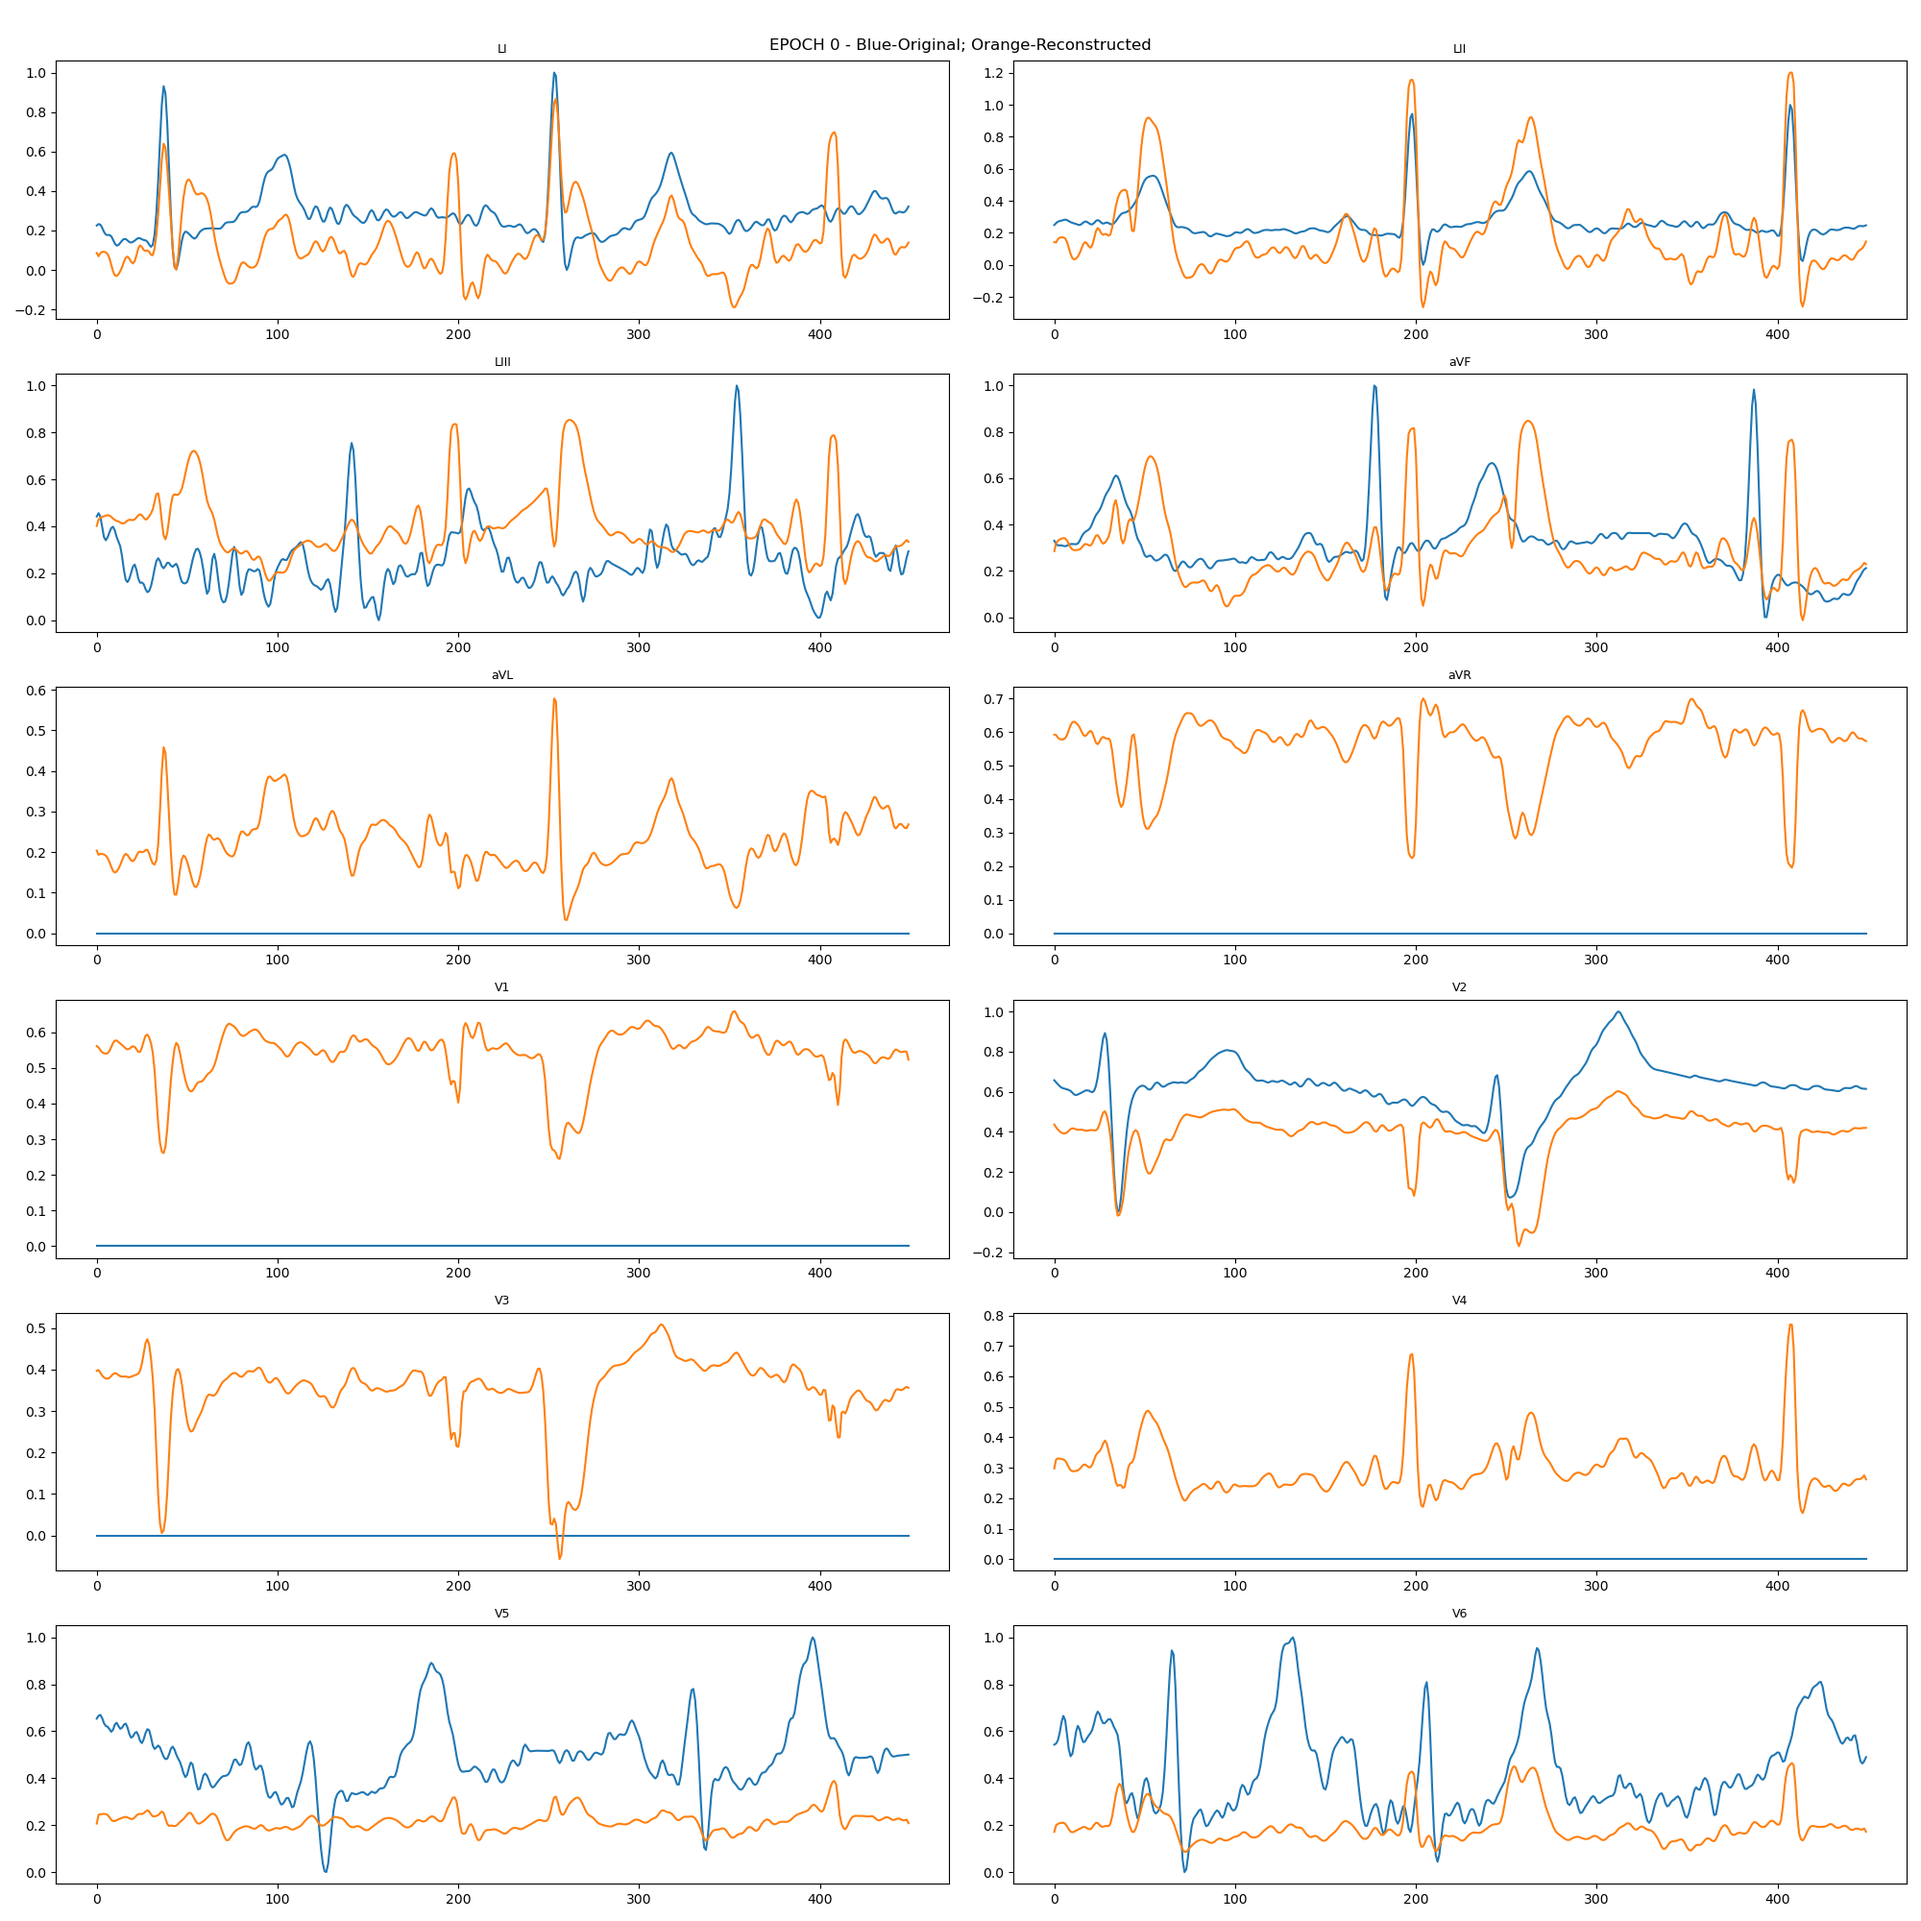
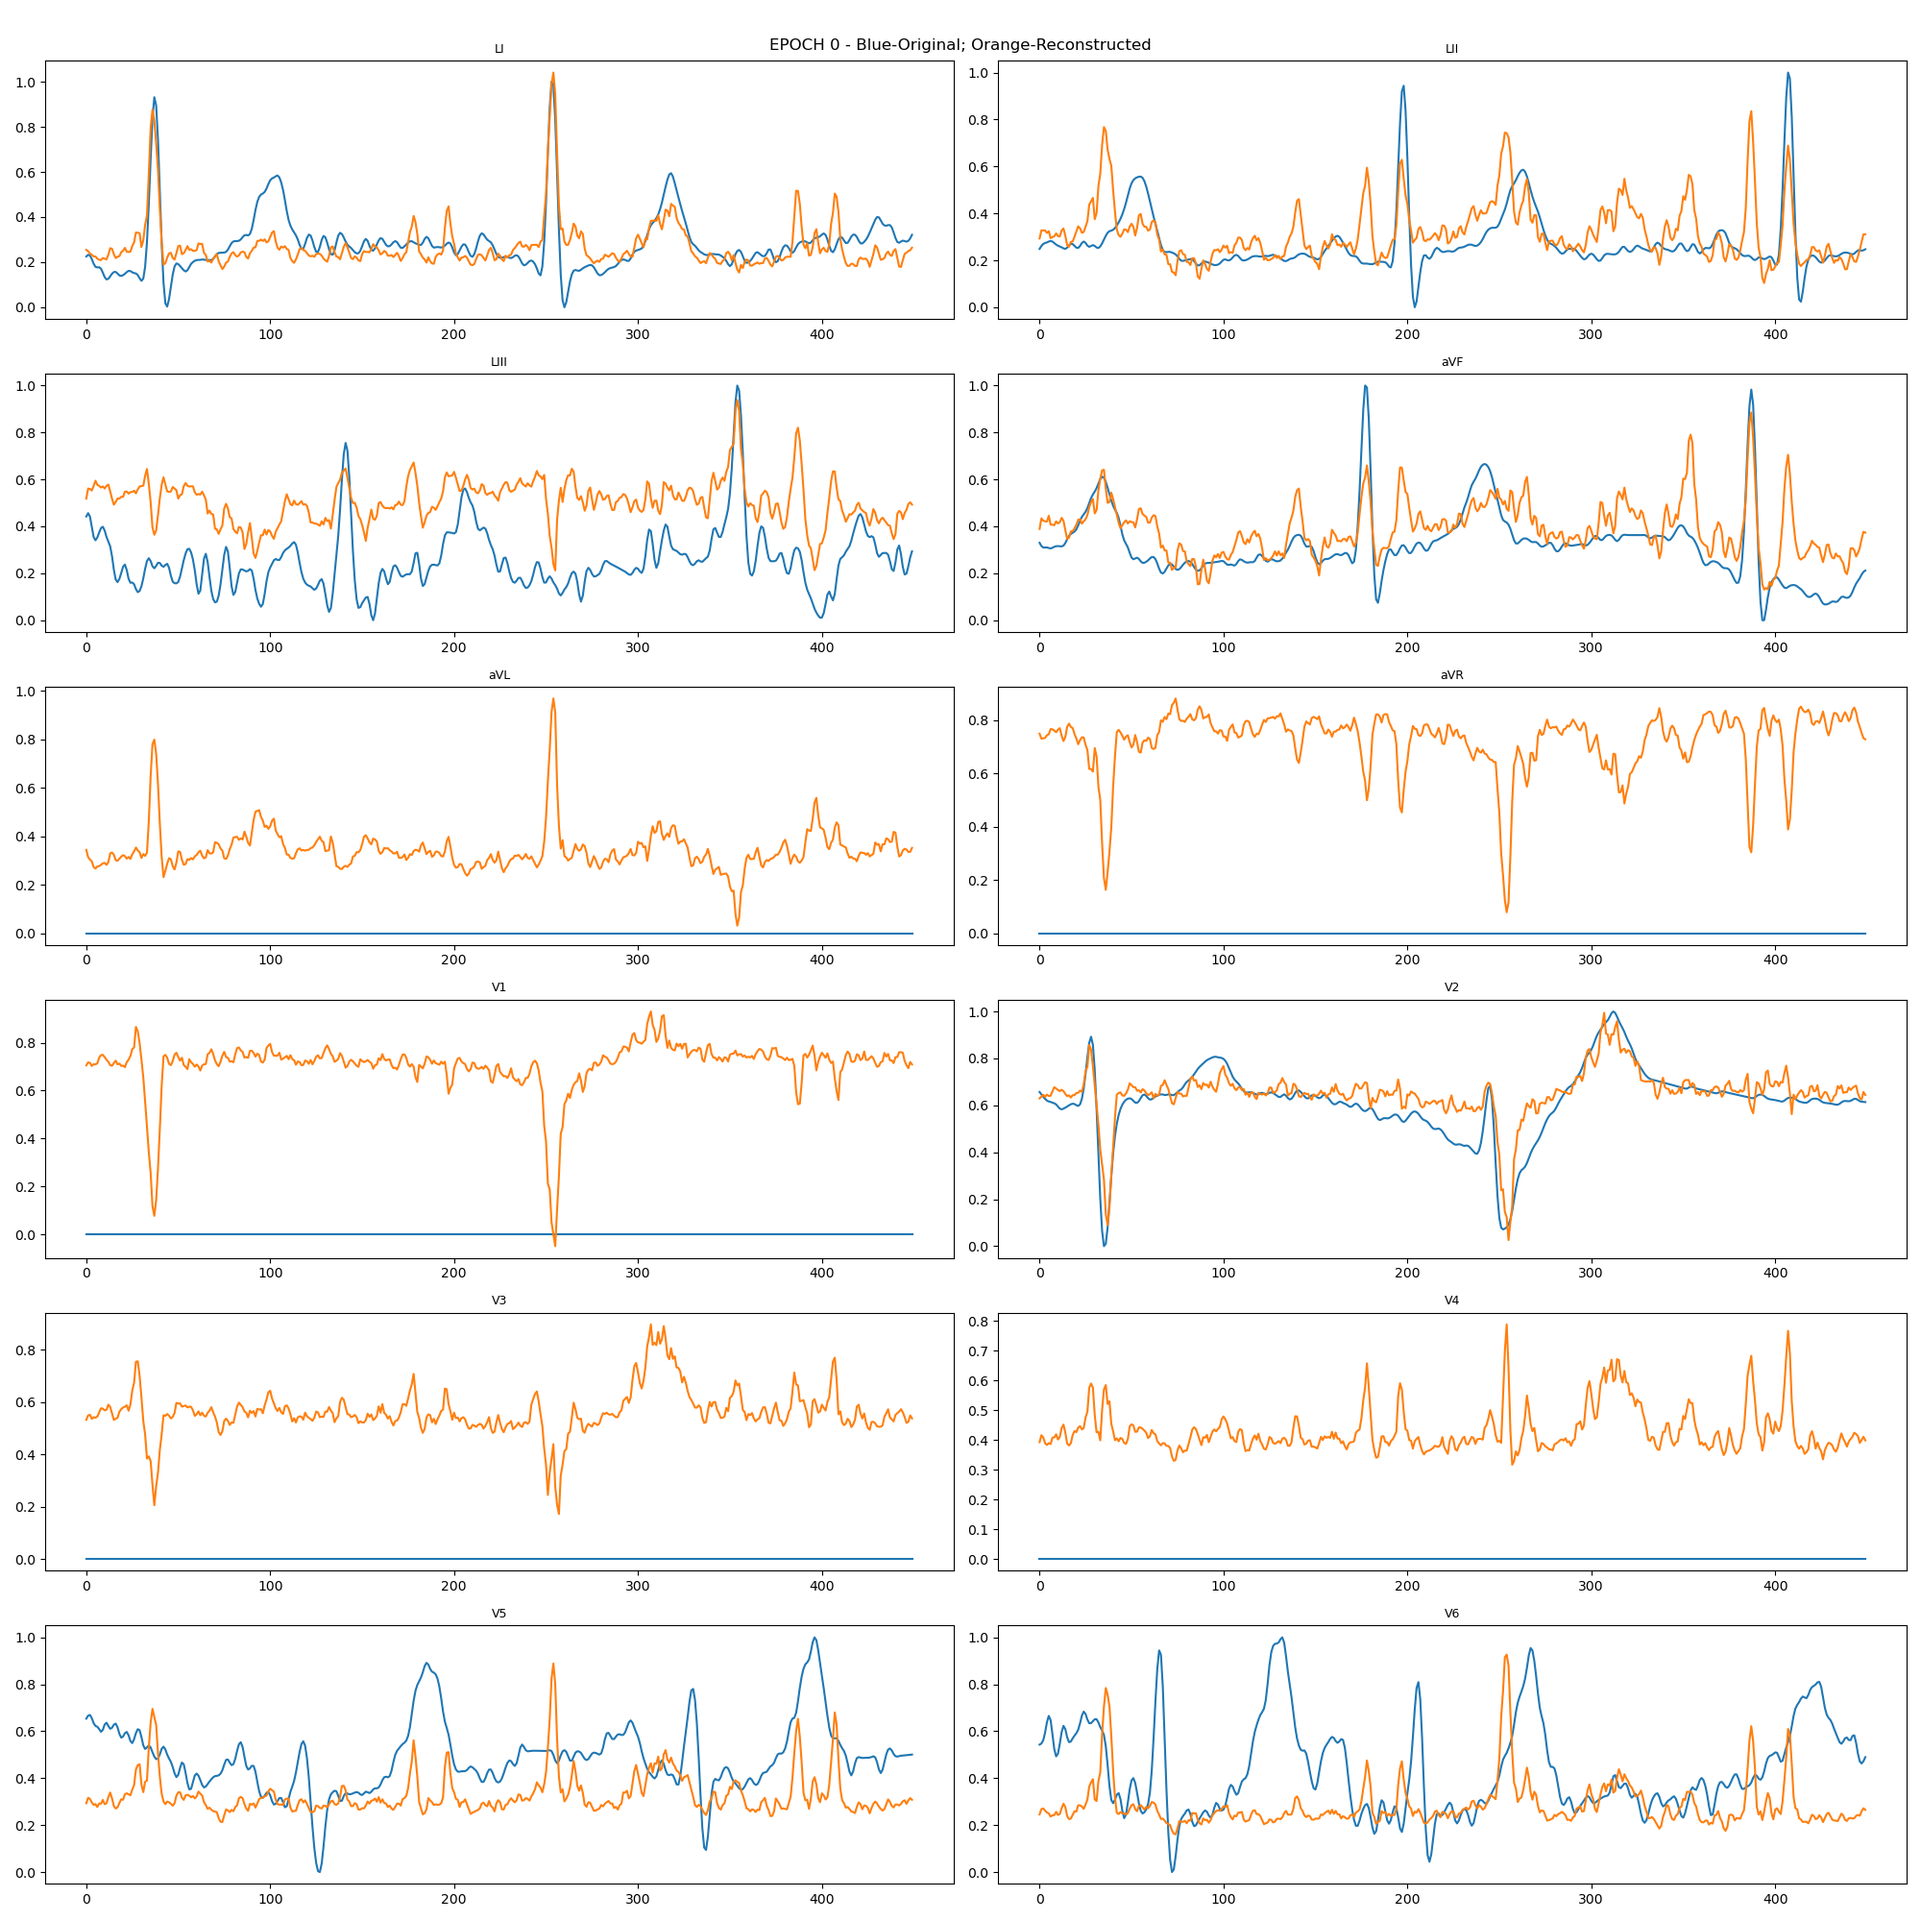
ADD: Plot reconstruction before start fine tuning.

diff --git a/executors/train_combined_model.py b/executors/train_combined_model.py
@@ -189,7 +189,15 @@ def trainer(seed,                    # seed
     losses = {'train':[],
               'validation':[]}
 
-    
+    # plot before fine-tuning
+    if plot:
+        plot_test_signals_12leads_SHL(model.upstream_model, 
+                            test_generator, 
+                            device, 
+                            0,
+                            plot_saving_path=f'{plot_saving_path}')
+
+
     # Training loop
     for epoch in range(n_epochs):
         
@@ -222,12 +230,12 @@ def trainer(seed,                    # seed
                                 device
                                 )
             
-            if plot:
-                plot_test_signals_12leads_SHL(model.upstream_model, 
-                                    test_generator, 
-                                    device, 
-                                    epoch,
-                                    plot_saving_path=f'{plot_saving_path}')
+        if plot:
+            plot_test_signals_12leads_SHL(model.upstream_model, 
+                                test_generator, 
+                                device, 
+                                epoch+1,
+                                plot_saving_path=f'{plot_saving_path}')
                 
         # store losses
         losses['train'].append(train_loss)
